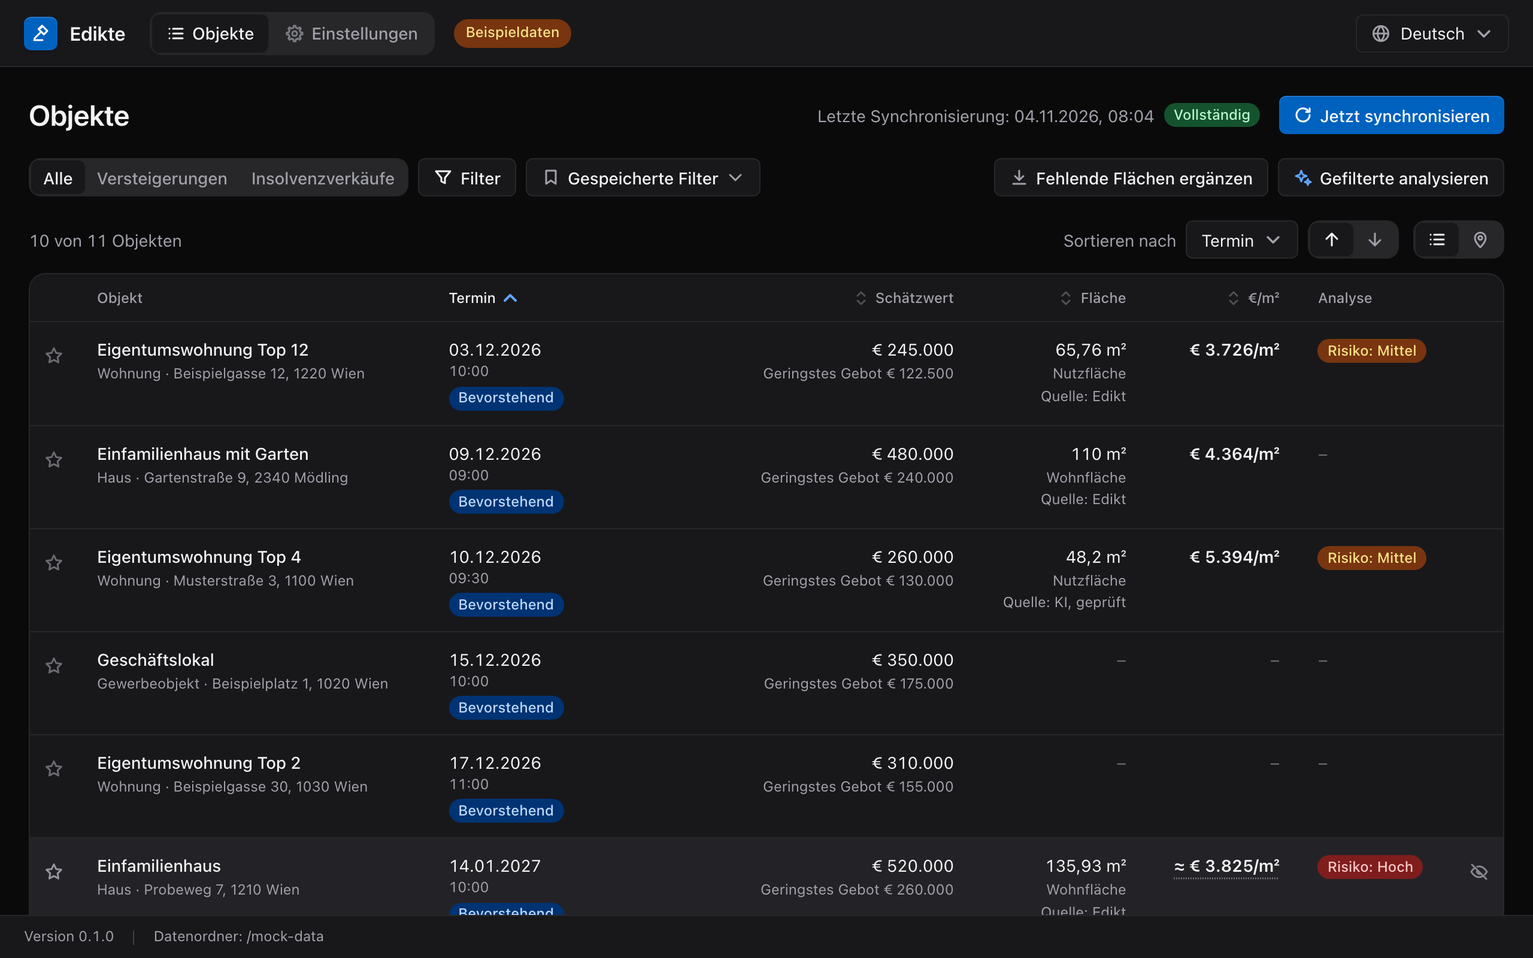
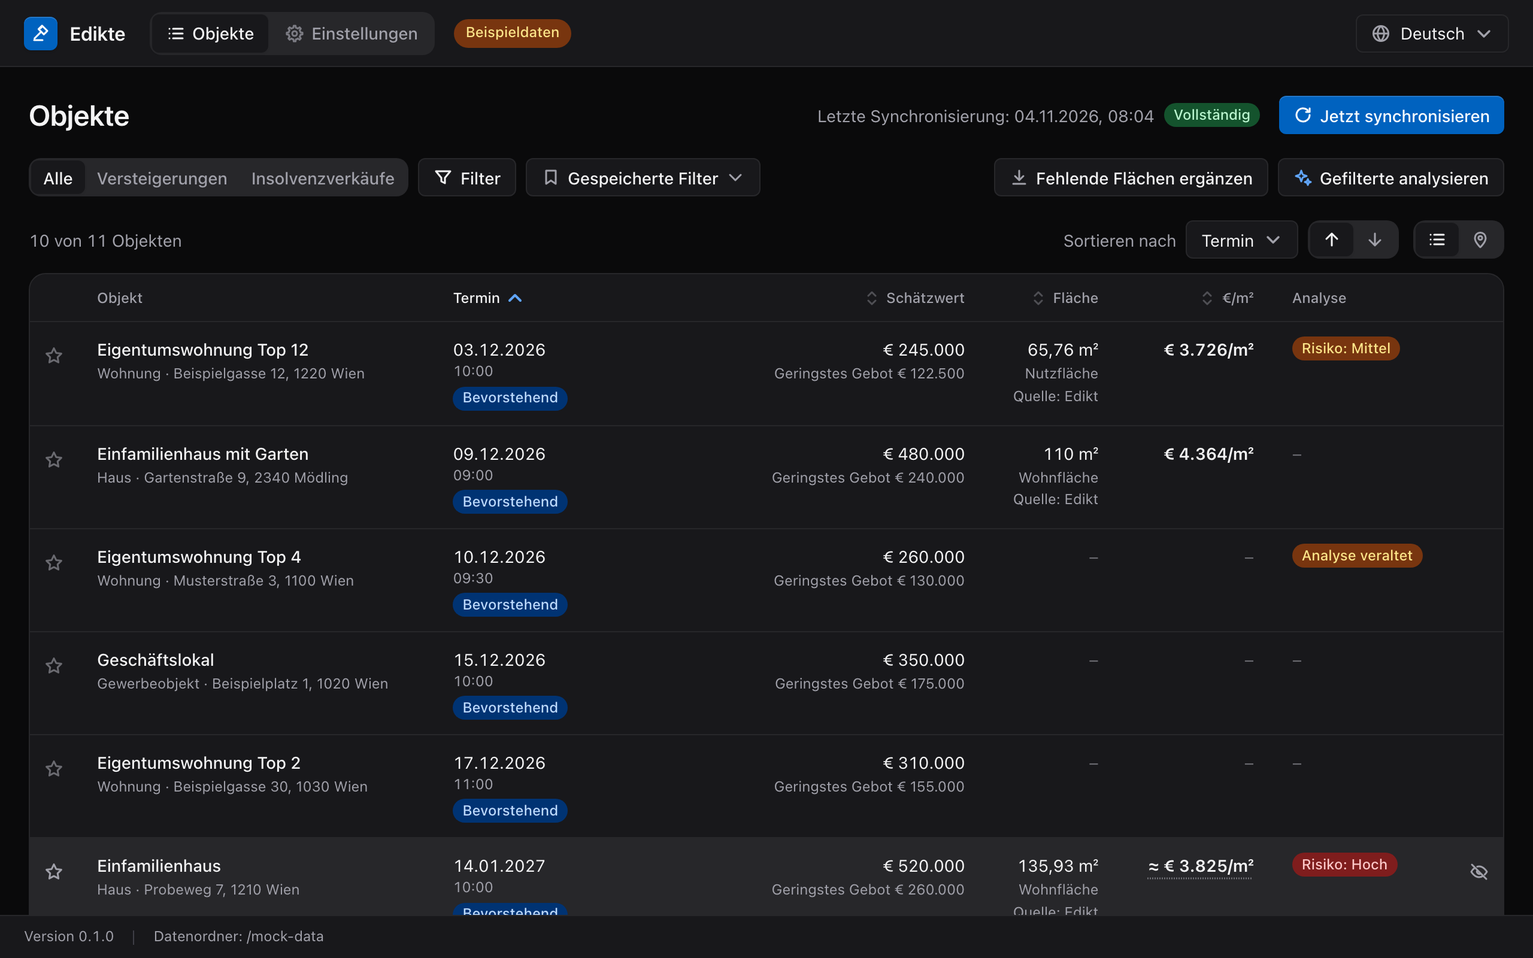
docs(insolvency): record approved fixes and final verification

diff --git a/SESSION_HANDOFF.md b/SESSION_HANDOFF.md
@@ -2,7 +2,7 @@
 
 Project: Edikte, the Electron desktop app for Austrian court auctions and real-estate sales in insolvency proceedings. Branch `feat/insolvency-sales`, based on `47ef51a`. Work remains local; nothing has been pushed, merged or released.
 
-The approved plan is `~/.claude/plans/edikte-insolvency-sales.md` (revision 2). Its progress file is `~/.claude/plans/edikte-insolvency-sales-progress.md`. The feature was already approved through implementation, verification and review. The improvement pass has a separate approval gate.
+The approved plan is `~/.claude/plans/edikte-insolvency-sales.md` (revision 2). Its progress file is `~/.claude/plans/edikte-insolvency-sales-progress.md`. The feature and all four recommended improvements are complete. The user approved items 1–4, including stale-analysis handling, on 2026-11-10.
 
 ## Completed
 
@@ -14,6 +14,10 @@ Recovered Claude's clean final contract commit, `c5a40ee`, and created an active
 | `7a0e835` | Shared sync engine, auction and insolvency strategies, record builder, sequential multi-source service/scheduling, unreadable-file guard and opt-in live verification |
 | `d6970e7` | Source-specific analysis prompts and versions, and the actual report IDs in completed analysis evidence                                                               |
 | `c900595` | Source-aware list/map/detail/settings/first-run UI, disabled-source recovery, batch query guards, paired copy and e2e heading updates                                 |
+| `4aad949` | Feature verification, review and screenshots                                                                                                                          |
+| `bc21197` | Consistent SQLite backup before pending migrations, with failure before DDL and migration-ledger writes                                                               |
+| `a729fe6` | Return focus after programmatic dialogs and map-card Escape/Close                                                                                                     |
+| `2aaf01f` | Current-report hash provenance, stale-result UI, cached area repair and guarded legacy migration 0006                                                                 |
 
 The auction system prompt still has version 2 and its previous SHA-256. The insolvency prompt uses version 1. Queued analysis records now save the report actually read, even when sync replaced the report while the job waited.
 
@@ -23,14 +27,16 @@ German and English UI copy refers to the combined list as Objekte/Listings. Inso
 
 ## Verification state
 
-- Both-project typecheck, ESLint and Prettier passed after the review fixes.
-- Unit tests: 737 passed, two opt-in tests skipped.
-- Built Electron smoke test: passed after the review fixes. It used a temporary user-data folder and offline mode.
+- Both-project typecheck, ESLint and Prettier passed after all approved improvements.
+- Unit tests: 752 passed, two opt-in tests skipped.
+- Built Electron smoke test: passed after all approved improvements and the final migration safeguard. It used a temporary user-data folder and offline mode.
 - Browser checks: mock renderer, both languages, light/dark views, 960/1280/1440 CSS pixel widths; source switch/sort/date behavior; rich and sparse sale detail; map pins and a sale card; source settings; saved-filter recovery when its source is disabled; keyboard operation. Filter dialog footer remained accessible at 960 × 600 and Escape returned focus to its trigger.
 - Batch actions now require the page to answer the current query. The normal mock response was too fast to observe the loading interval reliably; the identity guard and handler guard were inspected in code.
 - Browser map initially failed because a shared Vite optimizer cache served HTTP 504 for Leaflet. `vite.renderer.config.ts` now uses its own cache directory. The map and real basemap tiles loaded after restarting the development server.
 - Independent backend review ran 202 focused tests across 20 suites and found two concrete report-integrity defects, both fixed and covered by regressions.
 - README screenshots were regenerated with the existing script and all twelve images were inspected. They show made-up mock data and the new source controls.
+- Improvement review found no remaining actionable backend or UI findings. Regressions cover malformed legacy IDs, stale report areas/risks/filter counts, changed-byte extraction invalidation, cached local-estimate recovery and unsafe legacy migration backfills. The backup test proves committed WAL changes appear in the standalone snapshot and that backup failure leaves schema, ledger and data untouched.
+- Browser improvement checks covered saved-filter, fill, API-key and analysis dialog focus; map Escape and Close from inside a selected card; a plan with two downloads plus one cached read; local area recovery while old AI history stays stale; and the warning in both languages/themes at the 960-pixel minimum width. Provider controls used the mock bridge only.
 - Live verification passed in 1028.06 seconds (about 17 minutes): a fresh temporary Vienna database, both sources, one shared default client at one request per second. Both sources finished with status `ok`; the service emitted one final idle state and all three sample PDFs downloaded with positive byte counts. Court auctions had 154 listed/fetched/changed, zero removed and 274 requests. Vitest discarded captured logs for the passing test, so exact insolvency counts, full-run header percentiles and individual byte counts are unavailable. The temporary directory and downloads were removed. This run loaded the code before the unreadable-file guard; focused tests cover that guard at the committed revision.
 - A separate three-page insolvency search probe returned HTTP 200 in all three requests, with response headers after 301/135/132 ms and no timeouts. Pages held 100/100/20 readable rows, total 220, `incomplete=false`, no skipped rows. It used the same default client and one-request-per-second queue; the 10-second API timeout stays unchanged. These measurements cover list headers, not full-run retries. The temporary probe test was removed.
 
@@ -43,15 +49,16 @@ The real user-data folder has not been opened or migrated by this work. No live 
 - `src/main/services/{sync/sync-service,geocode/geocode-service,analysis/analysis-service,analysis/analysis-job}.ts` and `src/main/ai/analysis/{prompt,pipeline,batch}.ts`.
 - `src/renderer/src/features/{listings,detail,settings,first-run}/`, shared translation pairs, and `vite.renderer.config.ts`.
 - `tests/scraper/insolvency/live.test.ts`: opt-in live sync and sample downloads, temporary data only, aggregate logs without record contents.
-- `docs/insolvency-sales-review.md`: verification, fixed findings and ranked improvements for approval.
+- `src/main/db/backup.ts`, migration `0006_analysis_document_hash.sql`, document/analysis stores and services: backups, current-report provenance and cached recovery.
+- `docs/insolvency-sales-review.md`: verification, approved improvements and the deferred retention policy.
 
-## Remaining work and known gaps
+## Deferred work and known gaps
 
-Await the user's improvement choice. An async question offered migration backups plus dialog/map focus fixes (recommended), all four recommended fixes including stale-analysis handling, or deferring all improvements. No answer has arrived and no improvement changes have been applied. The Codex goal remains active for this choice and the approved work that follows.
+No implementation work remains under the approved goal. All work is committed locally. Push, PR, merge and release require separate approval.
 
-README and CLAUDE text, this handoff, the review and the twelve inspected screenshots complete the feature documentation. Reuse the images if approved changes do not alter their visible content.
+README and CLAUDE text, this handoff, the review, project memory and the twelve regenerated/inspected screenshots document the final behavior.
 
-The review recommends a consistent pre-migration database backup, a stale-analysis marker when its report is retired/replaced, focus return for programmatically opened dialogs, and marker focus after closing a map card with Escape. Expiry of downloads outside sync scope needs a policy choice first. The saved plan explicitly requires approval before the improvement pass changes anything.
+Expiry of downloads outside sync scope remains deferred until the user chooses a retention policy (review item 5). Source-switch counts remain optional. Neither was among the four approved improvements.
 
 Previously recorded gaps remain: Electron map-tile protocol and live Nominatim lookup were not exercised by the browser mock checks; no live Codex analysis, Windows run, packaged-app check or release was part of this work. Contrast review used visual inspection and existing semantic tokens, not numerical measurement of every state.
 
@@ -77,4 +84,7 @@ Reuse successful checks for unchanged code. A later deliberate live rerun is `ED
 - Preserve debtor-field exclusions, including old/new change-log values and free-text history notes. Store the administrator contacts needed for offers.
 - Preserve explicit sources in old saved filters. Recover a disabled-source selection through a visible action, without rewriting the saved filter.
 - Never analyse a retired report merely because it has a lower document ID. Preserve downloaded retired files for viewing and record the actual analysed report in evidence.
+- Current analysis and local-estimate values require the active report ID and matching known byte hash. Unknown legacy provenance stays stale; history and evidence remain readable. Migration backfills only safe extraction that predates the result, invalidating unsafe cache readiness before the backfill. No automatic AI refresh.
+- Preserve the last known hash when cache files are evicted. Changed bytes invalidate extracted pages atomically; identical bytes can reuse them. Explicit area fill can repair cached estimates or interrupted extraction without another download.
+- Keep pre-migration SQLite snapshots in `migration-backups`; backup failure aborts before any schema or ledger mutation. Backups have no automatic expiry.
 - Push, PR, merge and release still require separate approval.

diff --git a/docs/insolvency-sales-review.md b/docs/insolvency-sales-review.md
@@ -17,7 +17,7 @@ Browser verification exposed a separate development-cache conflict: Vite returne
 
 ## Verification
 
-Typecheck for both projects, ESLint, Prettier and 737 unit tests passed, with two opt-in tests skipped. The built Electron smoke test passed after the review fixes.
+Typecheck for both projects, ESLint, Prettier and 752 unit tests passed, with two opt-in tests skipped. The built Electron smoke test passed after all approved improvements and the final migration safeguard.
 
 The mock renderer was checked in German and English, in light and dark views, at 960, 1280 and 1440 CSS pixels. Checks included source switching, publication dates, rich and sparse sale details, settings that retain at least one source, a saved filter for a disabled source, map pins and a sale card, and keyboard operation. The filter dialog kept its footer accessible at 960 × 600 and returned focus on Escape. The ordinary mock response was too fast to observe the batch-button loading interval reliably; the query-identity guard was inspected in code.
 
@@ -25,13 +25,13 @@ The live Vienna test passed in 1028.06 seconds using both sources and the defaul
 
 A separate three-page API list probe returned 220 records with no skipped rows or incomplete result. All three requests returned HTTP 200; headers arrived after 301/135/132 ms, with no timeouts. The default shared request pace and 10-second API timeout were preserved. This small probe measures list-page headers, not full-run retry rates. Its temporary test file was removed.
 
-All twelve README screenshots were regenerated from mock data and inspected. They show the new source controls. They can be reused if approved improvements do not change their visible content.
+All twelve README screenshots were regenerated from mock data and inspected after the improvements. The list includes an outdated-analysis example whose old area and risk are excluded.
 
 The browser map used the mock bridge and basemap.at. The Electron tile protocol and live Nominatim lookup remain separate, previously recorded verification gaps. Contrast was reviewed visually and through the existing semantic token choices; this was not a numerical contrast audit of every state.
 
-## Improvements for approval
+## Approved improvements and deferred policy
 
-These changes go beyond completing the feature. None has been applied.
+The user approved all four recommended fixes (items 1–4) on 2026-11-10, including stale-analysis handling. All four are implemented. The table records the findings presented for that decision; item 5 remains deferred.
 
 | Rank | Finding and evidence                                                                                                                                                                                                                                                                      | Proposed change                                                                                                                                                                                                                         | Effort and risk                                                                                                     |
 | ---- | ----------------------------------------------------------------------------------------------------------------------------------------------------------------------------------------------------------------------------------------------------------------------------------------- | --------------------------------------------------------------------------------------------------------------------------------------------------------------------------------------------------------------------------------------- | ------------------------------------------------------------------------------------------------------------------- |
@@ -42,3 +42,14 @@ These changes go beyond completing the feature. None has been applied.
 | 5    | [caseClosedAt](../src/main/db/document-store.ts) returns no closure date for an open record. Disabling its source or Bundesland prevents later syncs from noticing its removal, so its unstarred downloads can remain indefinitely.                                                       | Choose an expiry policy for records outside sync scope before adding one. A rule based on time since last seen would need to explain that expiry does not establish the sale has ended.                                                 | Medium effort; policy and data-retention tradeoff. Defer until the policy is chosen.                                |
 
 Source counts in the switch remain an optional presentation change. The current view already shows filtered and total counts; the audit found no correctness failure that requires adding more counters.
+
+### Implementation and review
+
+- Pending migrations on existing file databases first save a standalone, WAL-aware SQLite snapshot under `migration-backups`. Failure aborts before schema or migration-ledger changes. Fresh, current, newer-schema and in-memory databases do not create unnecessary copies. Backup permissions and failure behavior are tested on temporary data.
+- Completed analyses and local estimates snapshot the report hash. Current values require the active report ID and a matching known hash. Unknown legacy provenance is treated as stale. History and original evidence links remain readable; stale values do not affect areas, price per m², risks, filters or already-analyzed counts. No AI starts automatically.
+- Changed downloads atomically invalidate their old extracted pages. Cache eviction retains the last known hash; identical bytes can reuse valid extraction. Explicit area fill repairs stale local estimates and interrupted cached extraction, with separate download and cached-read counts. Empty results are cleared so ready reports without an area are not repeatedly scanned.
+- Programmatic dialogs have explicit initial and return-focus targets. Saved-filter dialogs return to the persistent menu trigger; fill returns to its launcher or running Cancel control; API-key removal returns to the replacement field; analysis questions preserve the original invoker. Map Escape and Close share marker-focus restoration with a map fallback.
+
+Independent review reproduced and fixed malformed legacy document IDs, old extraction surviving a changed download, and cached reports being skipped by area fill. Migration review also guards against attaching a new hash to legacy results produced from old page text after an interrupted replacement.
+
+Browser checks verified all four dialog flows, map Escape and Close from inside the selected card, and a mixed fill plan with two downloads plus one cached read. The cached report supplied a current local area while the old AI result stayed outdated. The German warning fit at 960 × 600 without horizontal overflow; both languages and colour schemes were checked. These checks used the mock bridge only, including provider controls; no real credential or AI request was used.

diff --git a/README.md b/README.md
@@ -36,6 +36,7 @@ Die App ist für den privaten Gebrauch gedacht. Sie ist kein Angebot des Bundesm
 - **Karte:** Die Liegenschaften als Preismarken auf der Karte von basemap.at. Die Adressen sucht die App bei Nominatim (OpenStreetMap).
 - **Gutachten:** Die App lädt das Gutachten einer Liegenschaft auf Wunsch herunter und liest den Text aus. Fehlende Flächenangaben ergänzt sie aus den Gutachten.
 - **KI-Analyse:** Zusammenfassung, Flächen, Verkehrswert mit Stichtag, Zimmer, Stockwerk, Zustand und Heizung, Eigentumsanteil, Mietverhältnis, Lasten, Rückstände, Mängel und Risiken. Bei Insolvenzverkäufen führt die Analyse die im Gutachten genannten Lasten auf und setzt keine Löschung voraus. Zu jeder Angabe gehören, soweit das Gutachten sie hergibt, die Seite und ein Zitat. Die Analyse wird mit der Bekanntmachung abgeglichen, etwa Fläche gegen Objektgröße und Verkehrswert gegen Schätzwert. Auf Wunsch analysiert die App alle gefilterten Liegenschaften auf einmal.
+- **Veraltete Ergebnisse:** Passt eine Analyse nicht mehr zum aktuellen Gutachten oder lässt sich die Zuordnung nicht belegen, bleibt sie als veraltet sichtbar. Ihre Werte fließen nicht in Filter, Risikobadges oder den Preis pro m² ein. Eine neue KI-Analyse starten Sie selbst. „Fehlende Flächen ergänzen“ kann gespeicherte Gutachten erneut lokal lesen.
 - **Merken und ausblenden:** Liegenschaften lassen sich mit einem Stern markieren oder aus der Liste ausblenden. Objekte mit einem Stern oder Notizen bleiben in der Liste, wenn sie nicht mehr online sind.
 - **Zwei Sprachen, zwei Farbschemata:** Deutsch und Englisch; hell oder dunkel nach der Systemeinstellung.
 
@@ -120,6 +121,8 @@ Edikte speichert alle Daten in einem Ordner:
 
 Darin liegen die Datenbank (`edikte.sqlite`), die heruntergeladenen Gutachten (`documents`), die Kartenkacheln (`tiles`) und die verschlüsselten Anmeldedaten (`secrets.json`). Den genauen Pfad zeigt das App-Fenster nach „Datenordner:“ an. Heruntergeladene Gutachten löscht die App, sobald ein Verfahren länger als die eingestellte Frist abgeschlossen ist, standardmäßig 90 Tage.
 
+Vor einer anstehenden Datenbankmigration legt Edikte eine konsistente Sicherung im Unterordner `migration-backups` an. Schlägt die Sicherung fehl, wird die Datenbank nicht aktualisiert. Sicherungen bleiben erhalten, bis Sie sie selbst entfernen.
+
 Um alle Daten zu löschen, beenden Sie Edikte und löschen den Ordner. Auf dem Mac bleibt danach im Schlüsselbund ein Eintrag „Edikte Safe Storage“, den Sie in der Schlüsselbundverwaltung löschen können. Unter Windows deinstallieren Sie die App unter „Einstellungen“ > „Apps“ > „Installierte Apps“. Der Datenordner bleibt dabei erhalten.
 
 ### Datenschutz
@@ -194,6 +197,7 @@ The app is meant for personal use. It is not a service of the Austrian Federal M
 - **Map:** The properties as price markers on the basemap.at map. The app looks up the addresses at Nominatim (OpenStreetMap).
 - **Appraisal reports:** The app downloads the report of a property when you ask for it and extracts the text. Where a listing states no area, it takes the area from the report.
 - **AI analysis:** Summary, areas, market value (Verkehrswert) with valuation date, rooms, floor, condition and heating, ownership share, tenancy, encumbrances, arrears, defects and risks. For insolvency sales, the analysis lists the encumbrances named in the report without assuming that they are deleted. Each value comes with the page and a quote from the report, where the report provides them. The analysis is checked against the notice, for example area against the listed size and market value against the appraised value. You can also analyse every filtered property at once.
+- **Outdated results:** An analysis that no longer matches the current report, or whose match cannot be verified, stays visible as outdated. Its values do not feed filters, risk badges or price per m². You choose when to start another AI analysis. “Fill missing areas” can read saved reports again locally.
 - **Star and hide:** Properties can be starred or hidden from the list. Listings with a star or notes remain in the list after they leave the site.
 - **Two languages, two colour schemes:** German and English; light or dark following the system setting.
 
@@ -277,6 +281,8 @@ Edikte keeps all its data in one folder:
 - Windows: `%APPDATA%\Edikte`
 
 It holds the database (`edikte.sqlite`), the downloaded appraisal reports (`documents`), the map tiles (`tiles`) and the encrypted sign-in data (`secrets.json`). The app window shows the exact path after "Data folder:". The app deletes a downloaded report once its case has been closed for longer than the retention setting, 90 days by default.
+
+Before a pending database migration, Edikte saves a consistent backup in the `migration-backups` subfolder. If the backup fails, the database is not upgraded. Backups remain until you remove them.
 
 To delete all data, quit Edikte and delete the folder. On a Mac, a keychain item named "Edikte Safe Storage" remains, which you can delete in Keychain Access. On Windows, uninstall the app under "Settings" > "Apps" > "Installed apps". This keeps the data folder.
 

diff --git a/CLAUDE.md b/CLAUDE.md
@@ -46,6 +46,8 @@ Before a commit: typecheck, lint, unit tests and `format:check`. Run `test:e2e` 
 - Money: euros as plain numbers. Dates from the site: Vienna local time as `YYYY-MM-DD` or `YYYY-MM-DDTHH:mm`, never converted. App timestamps: ISO UTC. Court-auction IDs have 32 lowercase hex characters; insolvency-sale IDs are `mv-<JustizOnline record number>`. Shared patterns live in `src/shared/edict-id.ts`; the stored `source` column identifies the source.
 - Scraping: one shared queue sends at most one request per second across edikte.justiz.gv.at and justizonline.gv.at, sequentially, with backoff and jitter on 403, 429 and 5xx and a descriptive User-Agent. Court auctions use HTML; insolvency sales use JSON under `/jop/service/edi/v1/`. Redirects stay on the request's original host. Sync state, parser versions and runs are separate for each source.
 - Insolvency sales have no auction date or minimum bid. Their price and price per m² use the value in the notice (`schaetzwertEur`) under either price-basis setting. Analysis uses the prompt and prompt version for the listing's source.
+- Completed analyses and local area estimates carry the hash of the report bytes they read. Current values require the active report ID and a matching known hash. Unknown legacy provenance is stale; history and evidence remain visible, but stale values do not affect filters, risk or price per m². Never start AI work to refresh them automatically. Explicit area fill can repair cached local estimates without network or AI work.
+- Before pending migrations on an existing file database, save a consistent SQLite snapshot under `migration-backups` before changing the schema or ledger. Backup failure aborts the upgrade. Tests use temporary databases; backups are retained until the user removes them.
 - HTTP from main and workers uses Node's global `fetch`, not Electron's `net`: it runs under Vitest without Electron and sends only the headers the code sets.
 - Downloaded PDFs and HTML are untrusted. Parse PDFs in the utility process, never in main.
 - Every IPC handler goes through `createIpcRouter` in `src/main/ipc/handle.ts`: sender check, then Zod parsing of request and response. Errors cross IPC as `AppError` codes, and the renderer shows `errors.<code>` from the translations.
